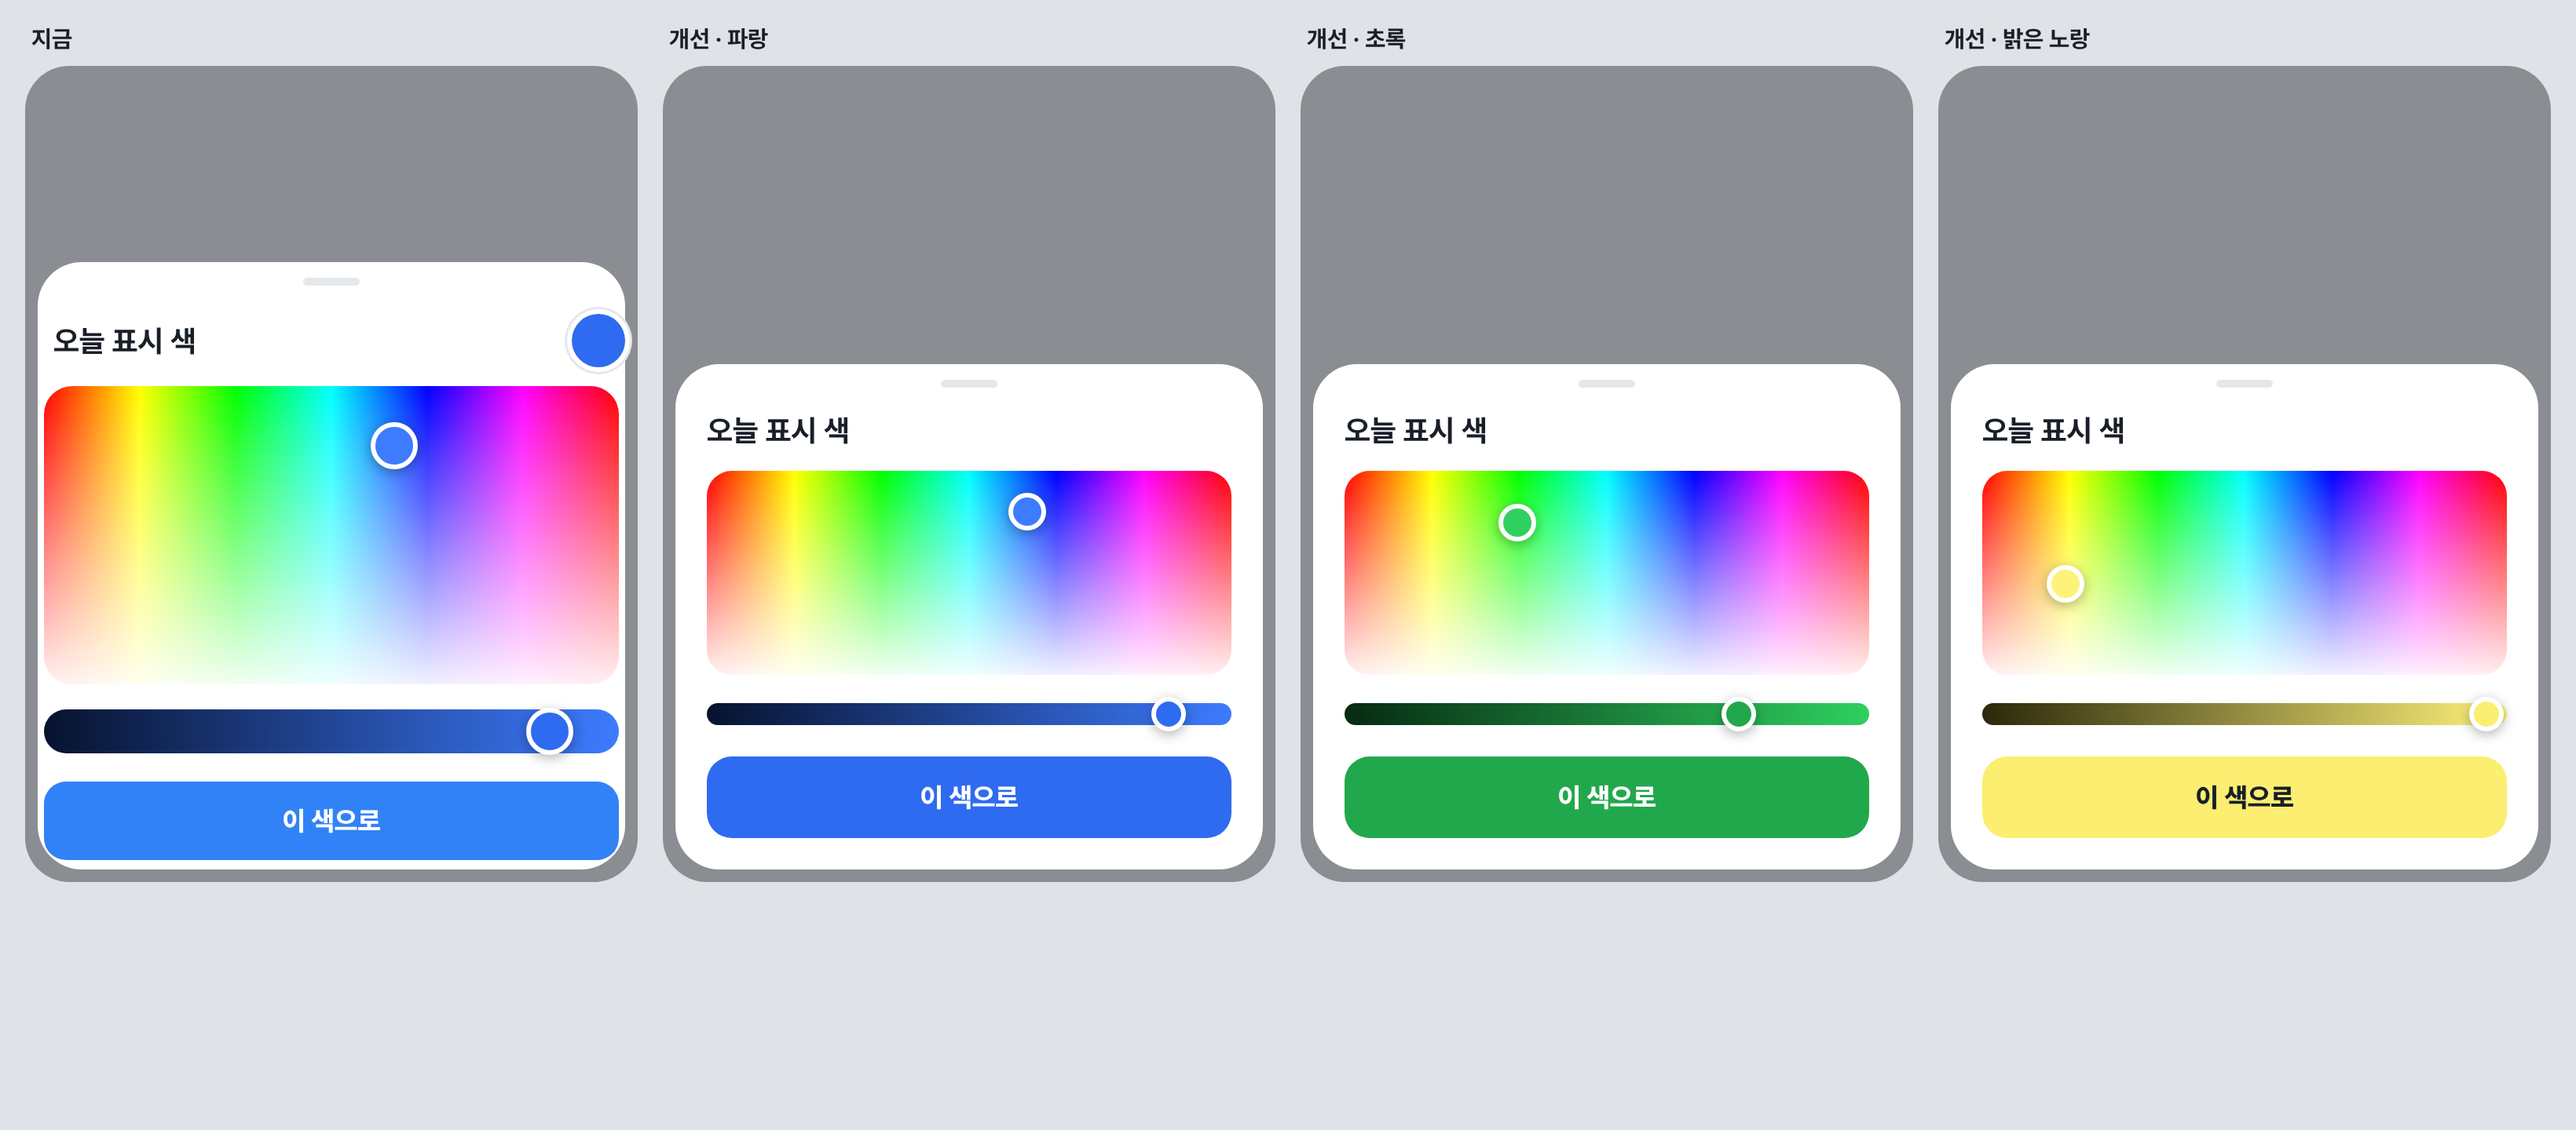
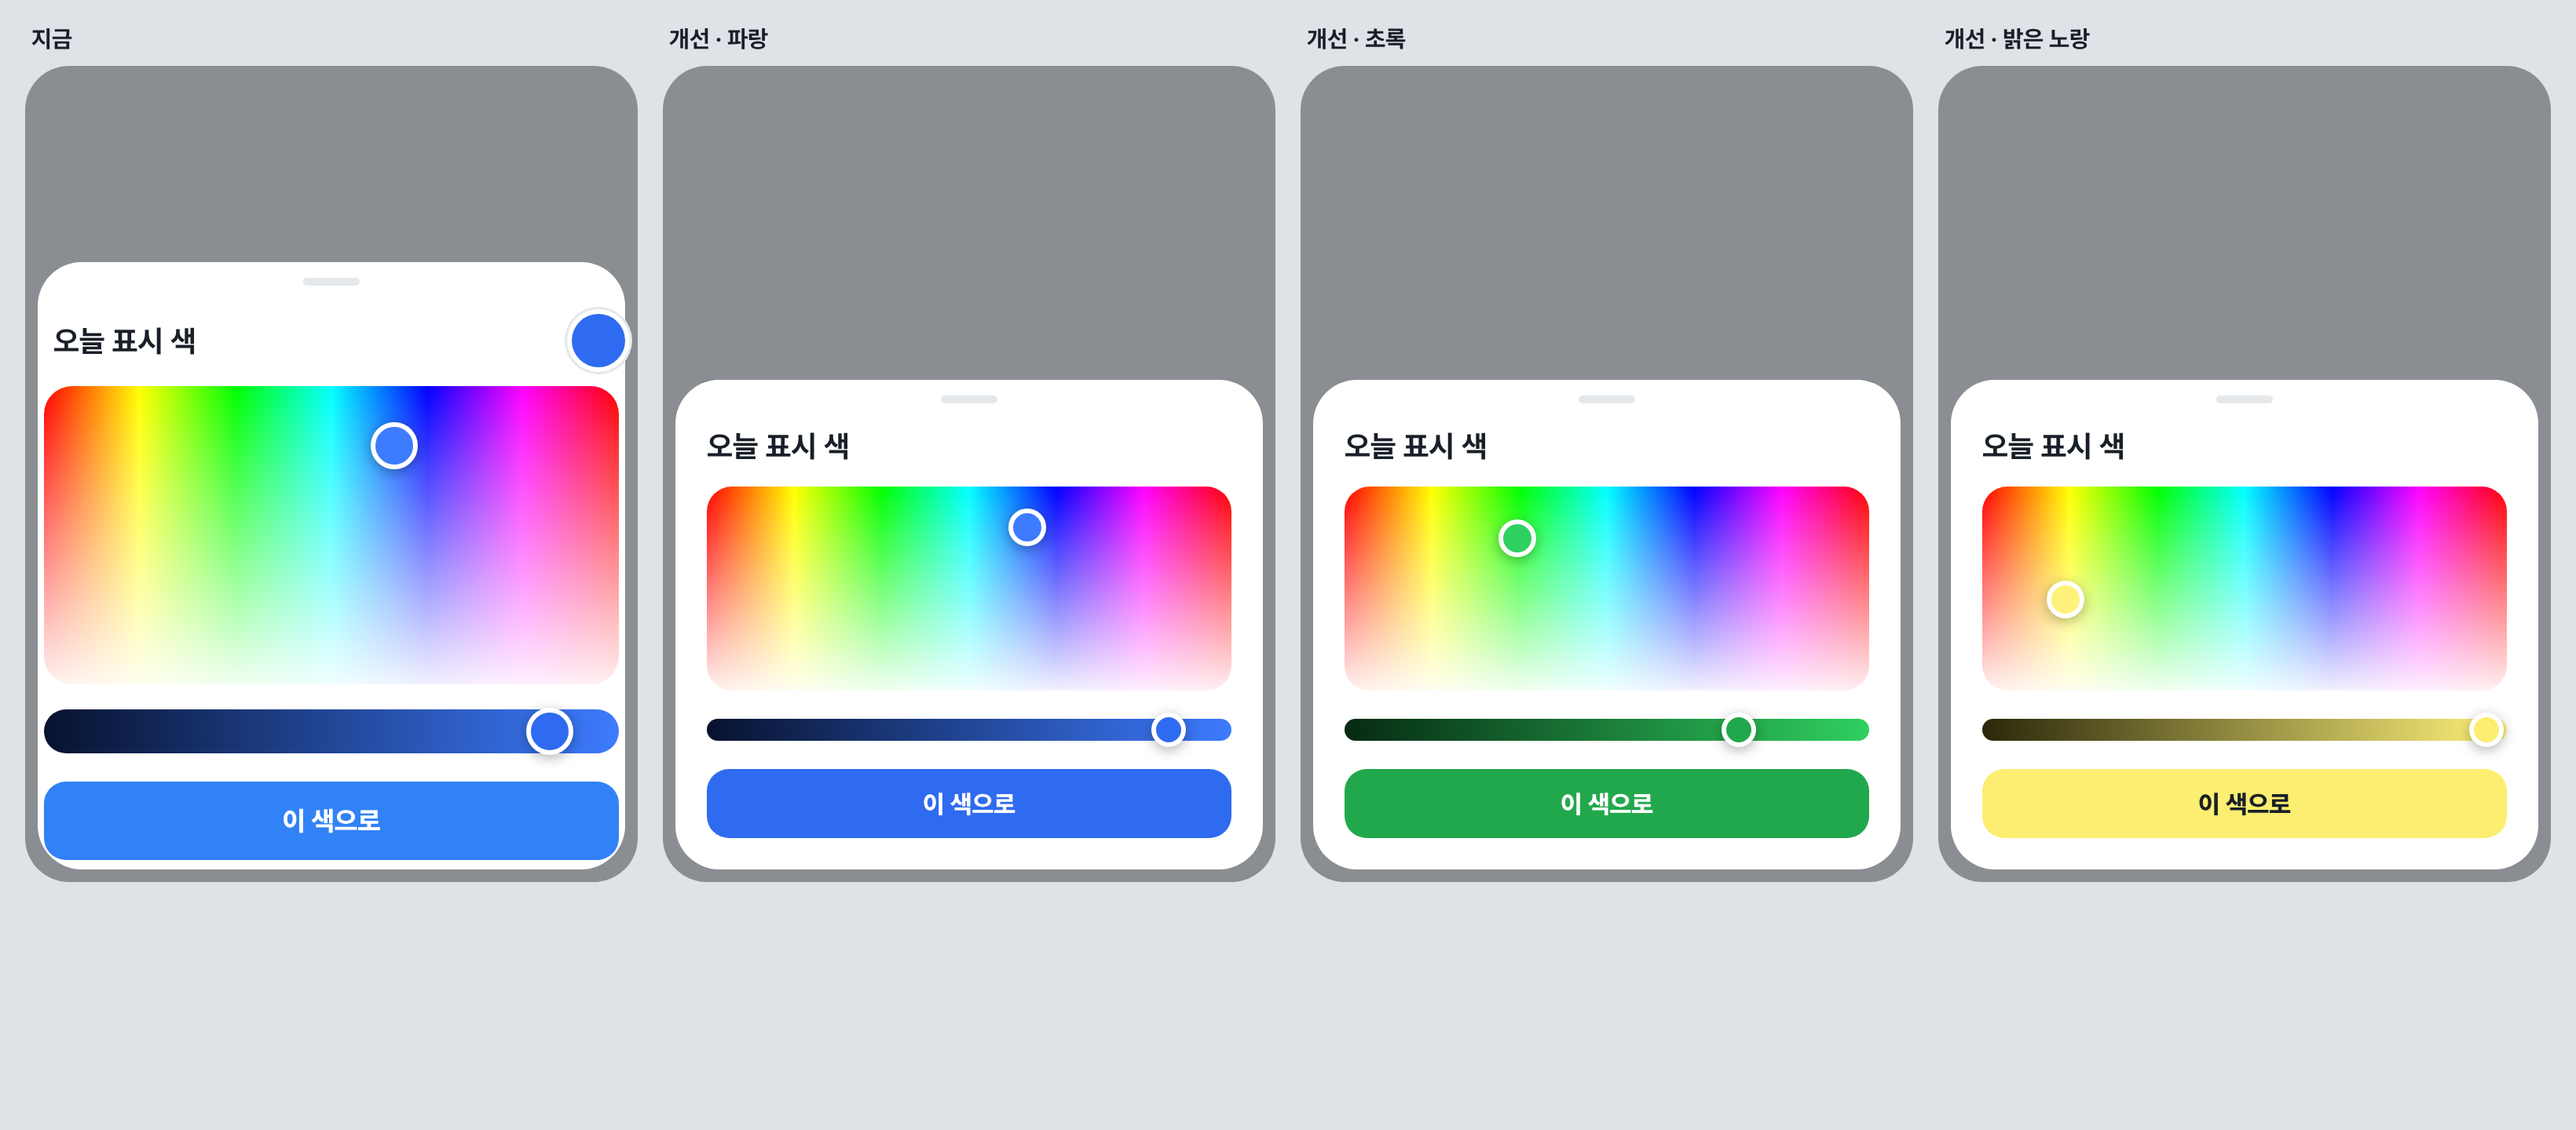
시안: 색 고르기 버튼 작게
Claude-Session: https://claude.ai/code/session_01JTBnEvptp151JygSjZNCTX

diff --git a/design/color/v2.html b/design/color/v2.html
@@ -24,7 +24,7 @@ body{margin:0;background:#dfe2e6;font-family:P,sans-serif;color:#191f28;padding:
 .b .box{height:130px;border-radius:16px}
 .b .bar{height:14px;border-radius:7px;margin-top:18px}
 .b .k{width:24px;height:24px}.b .bar .k{top:50%;width:22px;height:22px}
-.b .btn{margin-top:20px;height:52px;border-radius:16px;transition:background .15s}
+.b .btn{margin-top:18px;height:44px;border-radius:14px;font-size:16px;transition:background .15s}
 </style></head><body>
 <div class="col"><b>지금</b><div class="ph"><div class="sheet a"><div class="grab"></div>
 <div class="t"><b>오늘 표시 색</b><i class="pv"></i></div>

diff --git a/docs/TODO.md b/docs/TODO.md
@@ -2787,4 +2787,4 @@
 ## 색 고르기 창 다듬기
 - 양옆 여백 통일 · 위 미리보기 동그라미 안 잘리게 제목 줄 안으로 작게
 - 색판 높이 약 2/3 · 둥근 모서리 · 밝기 막대 얇게, 손잡이는 막대 높이에 맞춤
-- "이 색으로" 버튼 = 지금 고른 색 (움직이면 바로 바뀜) · 아주 밝은 색이면 글자 검정
+- "이 색으로" 버튼 = 지금 고른 색 (움직이면 바로 바뀜) · 아주 밝은 색이면 글자 검정 · 버튼 높이 44 (지금 50)
